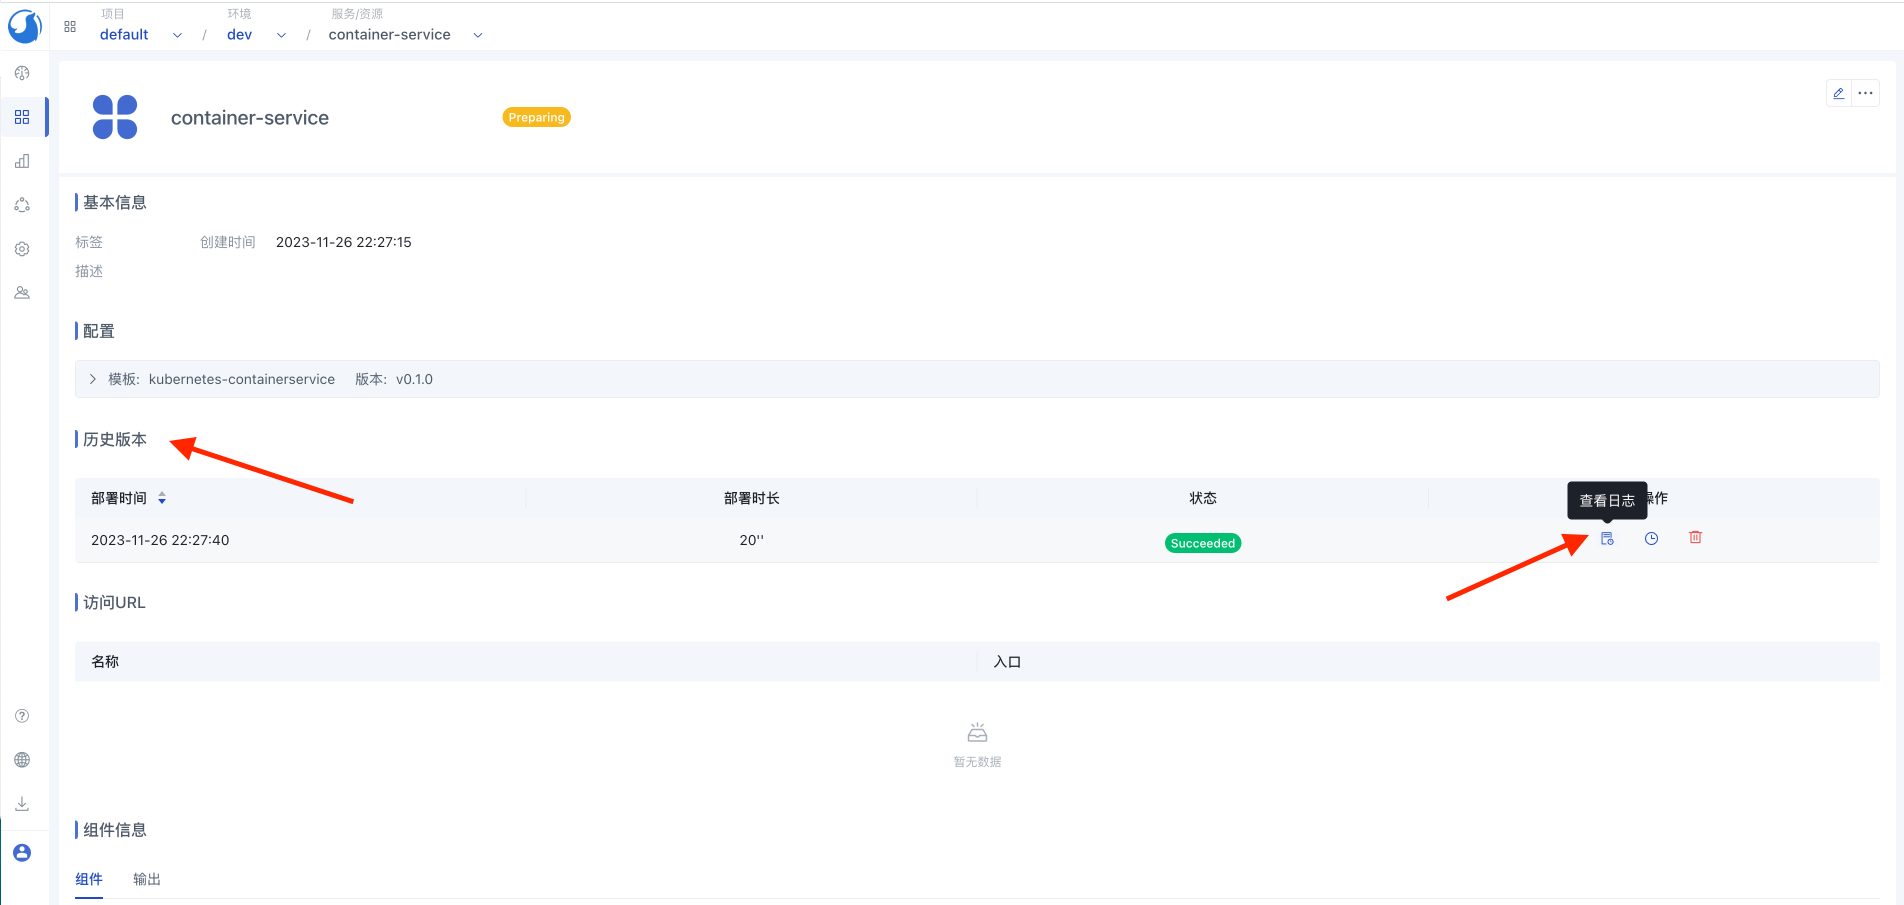
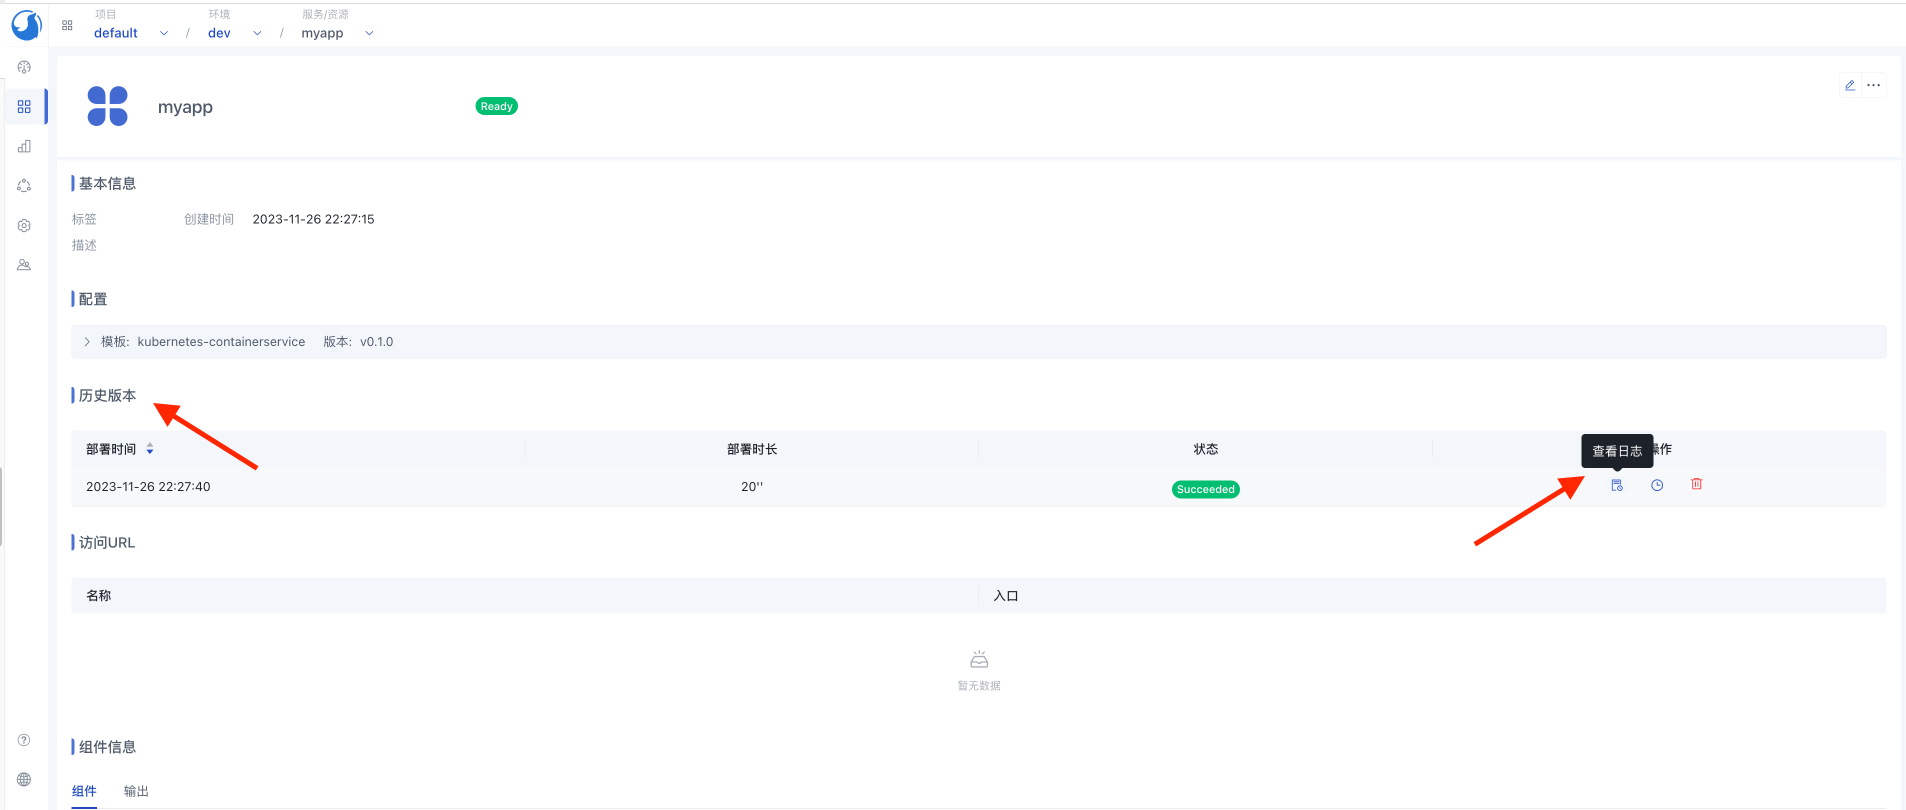
chore: update images

diff --git a/docs/quickstart.md b/docs/quickstart.md
@@ -70,7 +70,7 @@ sudo docker logs walrus 2>&1 | grep "Bootstrap Admin Password"
 
 ![qs-create-svc](/img/v0.4.0/quickstart/qs-create-svc-en.png)
 
-3. Fill in the service name, such as `container-service`, and make sure the template is selected as `kubernetes-containerservice`.
+3. Fill in the service name, such as `myapp`, and make sure the template is selected as `kubernetes-containerservice`.
 4. Enter `nginx` image in the Image Name of the template configuration, and click confirm.
 
 ![qs-create-svc2](/img/v0.4.0/quickstart/qs-create-svc2-en.png)

diff --git a/i18n/zh/docusaurus-plugin-content-docs/current/quickstart.md b/i18n/zh/docusaurus-plugin-content-docs/current/quickstart.md
@@ -70,7 +70,7 @@ sudo docker logs walrus 2>&1 | grep "Bootstrap Admin Password"
 
 ![qs-create-svc](/img/v0.4.0/quickstart/qs-create-svc.png)
 
-3. 填写服务名称，如`container-service`，确认模板选中`kubernetes-containerservice`。
+3. 填写服务名称，如`myapp`，确认模板选中`kubernetes-containerservice`。
 4. 在模板配置的 Image Name 中输入`nginx`镜像，点击确定。
 
 ![qs-create-svc2](/img/v0.4.0/quickstart/qs-create-svc2.png)
